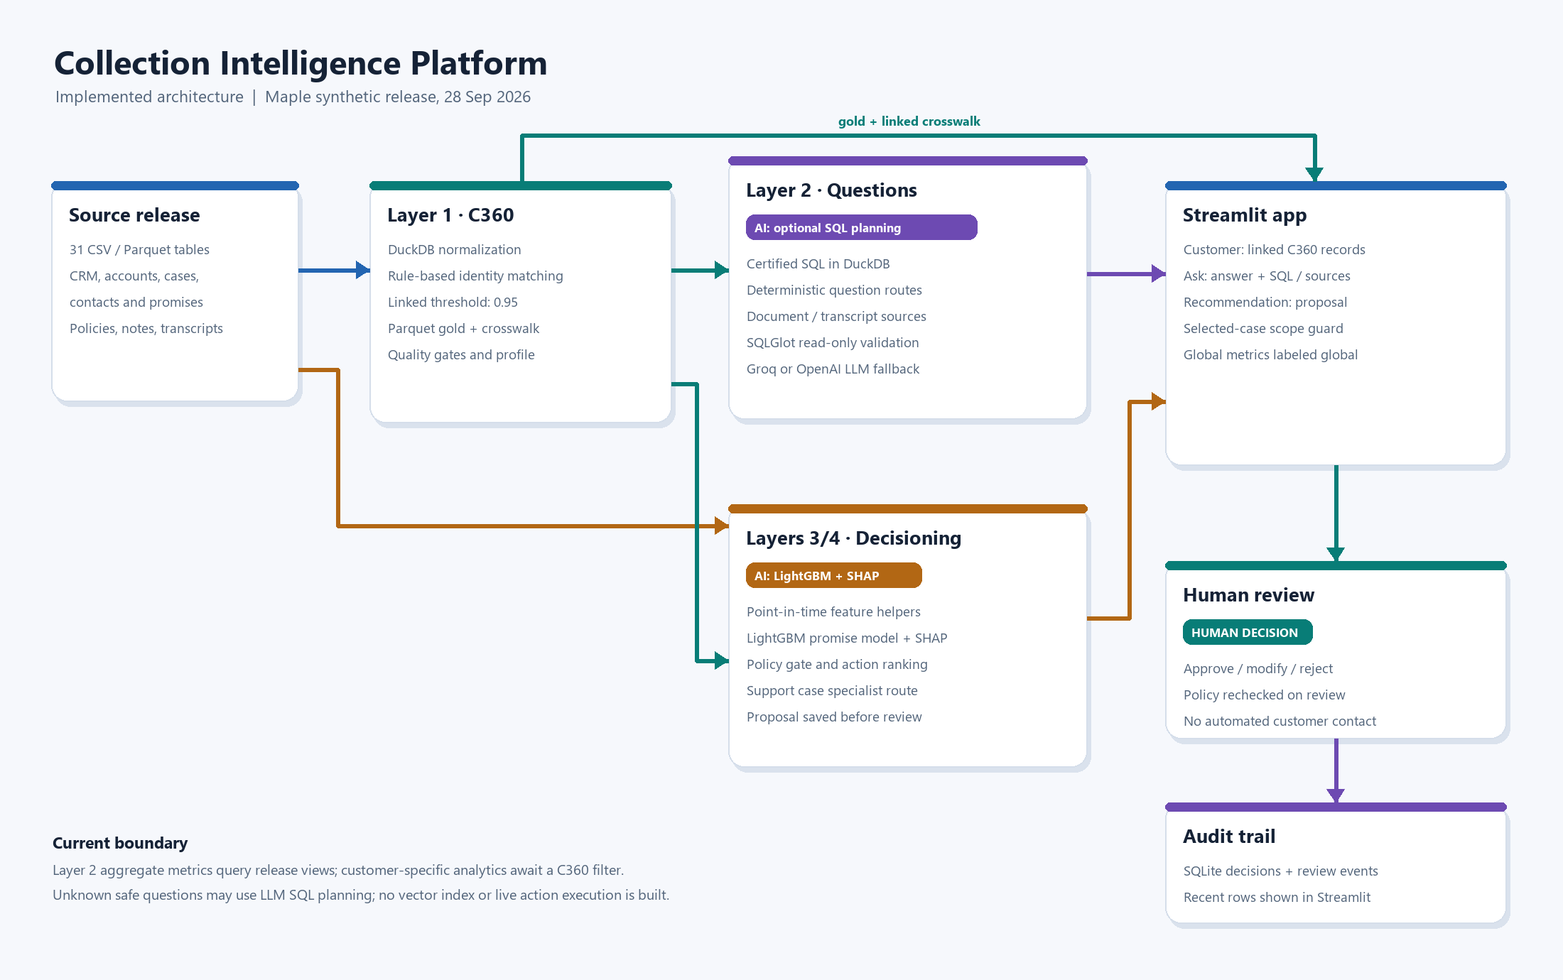
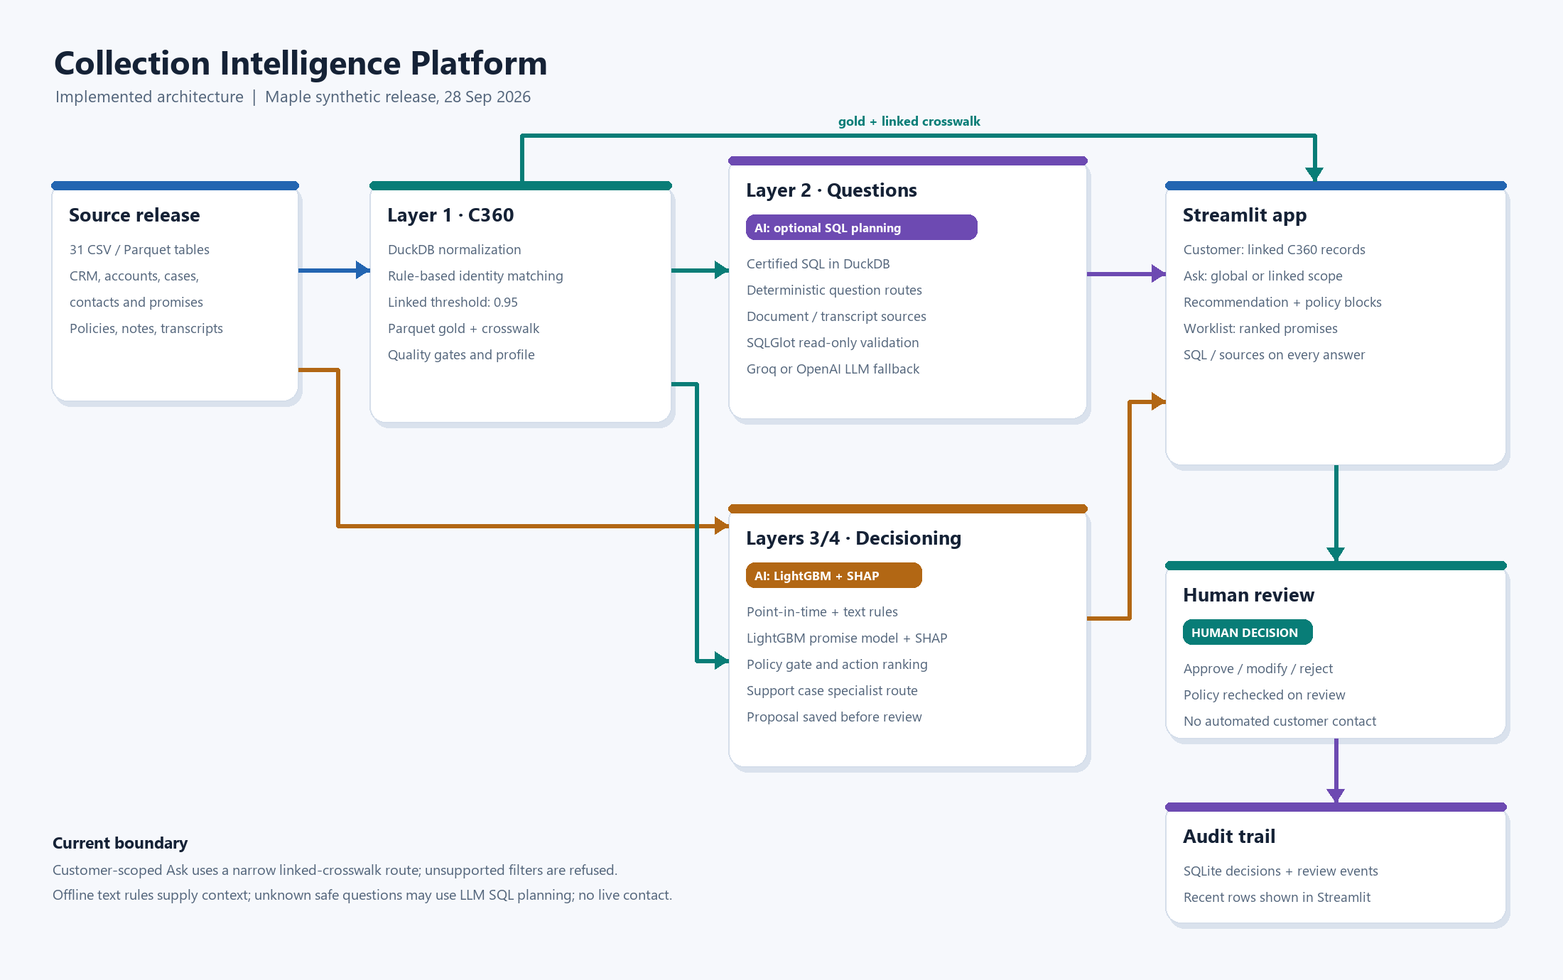
Refresh runbook architecture deck and live app screenshots

Changed region(s): [[0.0309, 0.8725, 0.4327, 0.9348], [0.7727, 0.2804, 0.8655, 0.3739], [0.5564, 0.6232, 0.5873, 0.6543]]

diff --git a/docs/render_architecture.py b/docs/render_architecture.py
@@ -82,10 +82,10 @@ box((1025, 220, 1530, 590), "Layer 2 · Questions", [
     "Certified SQL in DuckDB", "Deterministic question routes", "Document / transcript sources", "SQLGlot read-only validation", "Groq or OpenAI LLM fallback",
 ], PURPLE, "AI: optional SQL planning")
 box((1025, 710, 1530, 1080), "Layers 3/4 · Decisioning", [
-    "Point-in-time feature helpers", "LightGBM promise model + SHAP", "Policy gate and action ranking", "Support case specialist route", "Proposal saved before review",
+    "Point-in-time + text rules", "LightGBM promise model + SHAP", "Policy gate and action ranking", "Support case specialist route", "Proposal saved before review",
 ], AMBER, "AI: LightGBM + SHAP")
 box((1640, 255, 2120, 655), "Streamlit app", [
-    "Customer: linked C360 records", "Ask: answer + SQL / sources", "Recommendation: proposal", "Selected-case scope guard", "Global metrics labeled global",
+    "Customer: linked C360 records", "Ask: global or linked scope", "Recommendation + policy blocks", "Worklist: ranked promises", "SQL / sources on every answer",
 ], BLUE)
 box((1640, 790, 2120, 1040), "Human review", [
     "Approve / modify / reject", "Policy rechecked on review", "No automated customer contact",
@@ -106,9 +106,9 @@ arrow([(1880, 655), (1880, 790)], TEAL)
 arrow([(1880, 1040), (1880, 1130)], PURPLE)
 
 draw.text((74, 1170), "Current boundary", font=font(23, True), fill=INK)
-draw.text((74, 1210), "Layer 2 aggregate metrics query release views; customer-specific analytics await a C360 filter.",
+draw.text((74, 1210), "Customer-scoped Ask uses a narrow linked-crosswalk route; unsupported filters are refused.",
           font=font(20), fill=MUTED)
-draw.text((74, 1245), "Unknown safe questions may use LLM SQL planning; no vector index or live action execution is built.",
+draw.text((74, 1245), "Offline text rules supply context; unknown safe questions may use LLM SQL planning; no live contact.",
           font=font(20), fill=MUTED)
 
 image.save(OUT, optimize=True)

diff --git a/README.md b/README.md
@@ -15,7 +15,7 @@ Hackathon build for a golden customer view (C360), grounded collections question
 | `local_artifacts/` | Generated local files, ignored by Git |
 | `submission/` | Final artifacts to commit for judging |
 
-See [the parallel workflow](docs/PARALLEL_WORKFLOW.md) for folder ownership and integration steps. Each laptop downloads the dataset locally using [the dataset guide](docs/DATASET_DOWNLOAD.md). The dataset and virtual environment are not committed.
+Use [the dataset guide](docs/DATASET_DOWNLOAD.md) to download the release locally. The dataset, virtual environment, text annotation cache, and generated Parquet files are not committed.
 
 The build-phase requirements are in `build_phase.pdf`; the proposed architecture is in `HACKERS_SystemDesign.pdf`.
 
@@ -35,6 +35,8 @@ py -3 -m venv .venv
 .\.venv\Scripts\python.exe -m app.smoke
 .\.venv\Scripts\python.exe -m src.features.training
 .\.venv\Scripts\python.exe -m src.features.candidates --base local_artifacts/features/open_promise_features.parquet --output local_artifacts/features/open_promise_candidates.parquet
+.\.venv\Scripts\python.exe -m src.features.text_rules
+.\.venv\Scripts\python.exe -m src.features.text_data
 .\.venv\Scripts\python.exe -m streamlit run app/main.py
 ```
 
@@ -50,10 +52,14 @@ python3 -m venv .venv
 .venv/bin/python -m app.smoke
 .venv/bin/python -m src.features.training
 .venv/bin/python -m src.features.candidates --base local_artifacts/features/open_promise_features.parquet --output local_artifacts/features/open_promise_candidates.parquet
+.venv/bin/python -m src.features.text_rules
+.venv/bin/python -m src.features.text_data
 .venv/bin/python -m streamlit run app/main.py
 ```
 
-Download the dataset before the build command; see the dataset guide for its exact commands and access steps. Open the local URL printed by Streamlit. The Customer tab starts with `G-39c6b287f70371cd9fc6`; choose another demo ID or paste a published golden ID. Ask shows answers with evidence and refusals; Recommendation creates a proposal for human review and shows local audit rows. Worklist loads ranked open promises after the two feature commands. The smoke command writes a local test rejection to the ignored audit database. Stop the app with Ctrl+C.
+Download the dataset before the build command; see the dataset guide for its exact commands and access steps. Open the local URL printed by Streamlit. The Customer tab starts with `G-39c6b287f70371cd9fc6`; the dropdown also includes `G-b1714eca2809e88d7587`. Ask defaults to **All Collections**. Choose **This customer** only for a certified linked-customer route; unsupported scoped filters are refused. Every non-refused answer shows SQL or sources. Recommendation shows its reasons, text context, blocked actions with policy reasons, and human-review audit rows. Worklist loads ranked open promises. The smoke command writes a local test rejection to the ignored audit database. Stop the app with Ctrl+C.
+
+For the official benchmark output, run `python -m src.insights.submission --questions questions.csv --output answers.csv` from the repository root (use the venv's Python on either OS). The output columns are exactly `question_id,answer,sql_or_sources,refused`. See [the uncached first-run ledger](docs/insights/step3_first_run_34.csv) and [fresh-clone verification](docs/fresh_clone_verification.md).
 
 The [implemented architecture diagram](docs/architecture_built.png) shows the built components, AI use, and human review. [App interfaces](app/INTERFACES.md) and [hero-flow results](app/INTEGRATION_TEST.md) describe the current integration.
 
@@ -64,15 +70,23 @@ The [implemented architecture diagram](docs/architecture_built.png) shows the bu
 | Dagster, dbt and Great Expectations for the data product | One reproducible Python/DuckDB batch creates curated and golden Parquet files, with publication quality gates and a 31-table profile. |
 | Splink-style probabilistic identity matching and steward workflow | Rule-based matching publishes a link at confidence ≥0.95 only with a ≥0.05 lead over the next candidate and no conflicting profile. Ambiguous links remain `review_pending`; there is no steward UI or calibrated match probability. |
 | Vector document search and an agent-style Q&A planner | Document answers use governed source IDs and section mappings; transcript facts use text patterns. Released questions use deterministic routes. Unknown safe analytics can use an optional LLM SQL planner, validated with SQLGlot before read-only DuckDB execution. There is no vector index. |
-| Next.js application | Streamlit has Customer, Ask, and Recommendation tabs. Customer records use linked C360 keys; Ask labels global metrics and refuses unsupported customer-scoped analytics. |
+| Next.js application | Streamlit has Customer, Ask, Recommendation, and Worklist tabs. Ask has explicit All Collections / This customer scope; linked customer SQL supports only narrow certified routes and refuses unsupported filters. |
 | Managed AI decision service and online feature store | Local point-in-time feature helpers feed a LightGBM promise-kept model with SHAP reasons. A policy gate ranks allowed actions; a typed reviewer ID approves, modifies, or rejects a proposal into SQLite. No customer contact is executed. |
-| Broad use of customer profile signals | Fairness-test fields are excluded from published C360 outputs and model ranking. Support flags are used only to route a case to specialist review. |
+| Broad use of customer profile signals | Protected fields are excluded from published C360 outputs and model ranking. Vulnerability flags route only to specialist review. Offline text rules from pre-scoring notes and customer transcript turns are context only. |
 
 The optional SQL-planning provider is Groq (`openai/gpt-oss-120b` by default with `GROQ_API_KEY`) or OpenAI (`gpt-5-mini` by default with `OPENAI_API_KEY`); OpenAI takes precedence if both are configured. The hero smoke test used deterministic Layer 2 routes, so it did not call either provider. The promise model runs locally with LightGBM.
 
-## AI tools used (submission draft)
+## AI tools used
 
-- Groq API (`openai/gpt-oss-120b`, fallback `openai/gpt-oss-20b`): SQL planning only for new Layer 2 analytics questions. The application validates and runs the SQL read-only in DuckDB, then builds answers solely from query results. A 24-question live API run has been completed.
+- Groq API (`openai/gpt-oss-120b`, fallback `openai/gpt-oss-20b`): SQL planning only for new Layer 2 analytics questions. The application validates and runs the SQL read-only in DuckDB, then builds answers solely from query results. The 34-question uncached first run had 33 non-error executions, 10 retries, and 172 seconds of rate-limit waits; one request failed before SQL execution. The text features use no API.
 - OpenAI API: optional alternative provider for the same SQL-planning-only path; not used for the Groq live run.
 - LightGBM and SHAP: local promise-kept estimation and explanation for decision proposals.
 - Codex: implementation, test creation, and development workflow assistance.
+
+## Honest limitations
+
+The channel score assumes `0.8 × smoothed right-party-contact rate − 0.2 × normalized channel cost` using the previous 90 days and the customer's local time band. These weights are human assumptions, not learned treatment effects.
+
+The release is synthetic and fixed at 28 September 2026. Identity confidence is rule based, and historical crosswalk availability cannot be proven. The time-split promise test had a 62.4% break rate versus 35.7% in training, so calibration can drift. LightGBM's test ROC-AUC was 0.677 and calibrated Brier score 0.2245; the signal is modest. The calibrated model does not beat logistic regression on every ranking measure. Text-rule precision and recall were measured on 500 public labels for each source, but those examples influenced rule writing and are not independent validation. Rules can miss paraphrases and languages. The annotation cache must be built offline before the demo; missing text means unknown, never no hardship.
+
+Channel and time-band weights are explicit assumptions based on observational right-party-contact rates; agents chose the historical channels. The backtest establishes neither uplift nor fair causal treatment. Protected fields are used only in a separate restricted measurement script, never in model features, action ranking, or explanations. Vulnerability flags only route to specialist review and suppress ordinary collection actions. No deposits or transactions enter the current feature matrix, so Canada Child Benefit deposits cannot enter it. The app has typed reviewer IDs rather than production authentication, uses local SQLite audit records, and sends no customer contact. An operational pilot would need randomized or carefully controlled comparison, consent and policy review, authentication, monitoring, and outcome measurement before any uplift claim.

diff --git a/docs/deck_outline.md b/docs/deck_outline.md
@@ -1,61 +1,77 @@
-# Collection Intelligence Platform — 10-slide deck outline
+# Collection Intelligence Platform — ten-slide outline
 
-## 1. The collections decision problem
+## 1. Problem
 
-- Agents need one trusted customer view across CRM, cards, lending, core banking, and Collections.
-- Questions must be grounded in certified metrics or policy sources.
-- Recommendations must be explainable, policy-checked, and reviewed by a human.
+Collections agents need a linked customer view, grounded answers, and a
+policy-checked proposal they can review before any action.
 
-## 2. What we built
+## 2. Built flow
 
-- Four-layer flow: C360 data product, governed insights, decisioning, and human review.
-- Streamlit demo connects Customer, Ask, Recommendation, and Worklist views.
-- Hero demo: `G-39c6b287f70371cd9fc6`.
+The Streamlit Customer, Ask, Recommendation, and Worklist tabs connect a
+Python/DuckDB C360 build, governed SQL/documents, point-in-time features,
+LightGBM/SHAP, a policy gate, and SQLite review audit. Hero:
+`G-39c6b287f70371cd9fc6`.
 
-## 3. Layer 1 — golden customer view
+## 3. Golden customer and quality
 
-- A reproducible Python/DuckDB batch profiles 31 source tables and publishes Parquet outputs.
-- Identity links require confidence at least 0.95, a 0.05 lead, and no conflicting profile.
-- Unlinked and review-pending records stay out of customer-level answers and decisions.
+31 source tables are profiled. Linked identities require rule confidence at
+least 0.95, at least 0.05 lead over another candidate, and no conflicting
+profile. The Why linked? table displays source record, matching evidence,
+method, confidence, and status. Ambiguous links stay pending.
 
-## 4. “Why linked?” and data quality
+## 4. Governed Ask
 
-- The UI shows source keys, match method, evidence names, confidence, and link status.
-- Quality gates cover uniqueness, referential integrity, confidence, amounts, and case resolution.
-- Protected fields are excluded from published C360 outputs.
+All Collections is the default; This customer uses a narrow certified
+crosswalk route. Unsupported filters are refused. Every non-refused answer
+shows SQL or source IDs. The 34-question uncached fresh/blind run produced 33
+non-error executions; 1 failed on Groq JSON validation before SQL. It took
+349.93 seconds including 136.98 seconds setup, with 10 retries and 172 seconds
+of rate-limit waits. This is an execution result, not an accuracy score.
 
-## 5. Layer 2 — grounded answers
+## 5. Promise model evidence
 
-- Deterministic routes answer the released benchmark with certified read-only DuckDB SQL, documents, and transcript evidence.
-- Every answer displays SQL or source IDs, snapshot date, and metric definition when applicable.
-- Refusals cover out-of-scope questions, protected-attribute profiling, bulk PII, and unsafe actions.
+On 54,657 test-period resolved promises: 62.4% broke. Logistic regression
+ROC-AUC 0.677, broken-class PR-AUC 0.752, Brier 0.2492. Calibrated LightGBM
+ROC-AUC 0.677, broken-class PR-AUC 0.746, Brier 0.2245. The constant test-rate
+oracle Brier is 0.2347; the pre-July training-rate constant is 0.3059.
+Isotonic calibration was fitted on a pre-test validation period.
 
-## 6. Layer 3/4 — prediction plus policy
+## 6. Policy, reasons, and text
 
-- Point-in-time features feed a local LightGBM promise-kept model.
-- SHAP factors explain the proposal; policy rules control permitted actions and specialist routing.
-- Vulnerability flags route support review; they do not rank ordinary collection actions.
+Policy blocks forbidden channels and routes hardship/vulnerability to a
+specialist. SHAP supplies model reasons only after policy. Offline text rules
+add dated context and cannot alone trigger adverse treatment. On 500 public
+labels per source, hardship precision/recall was 1.000/0.815 for notes and
+0.991/0.863 for transcripts. Delay-reason presence was 0.856/0.628 and
+0.808/0.770. Public examples influenced rule writing, so these are
+development-set results.
 
 ## 7. Human review and audit
 
-- Proposals are pending until a reviewer approves, modifies, or rejects them.
-- Reviewer ID and reason are required; review events are append-only in SQLite.
-- The system never sends customer contact or activates a payment plan.
+Approve, modify, or reject requires reviewer ID and reason. Policy is checked
+again during review. Audit events are append-only locally; no contact is sent.
+The app shows each blocked action and its reason.
 
-## 8. Worklist for operations
+## 8. Worklist
 
-- Linked open promises are ranked by predicted break risk.
-- The queue shows customer ID, case, risk, top reason, and model version.
-- Leakage checks ensure source data is available before promise creation; the queue is a review list, not an action list.
+Linked open promises are sorted by predicted break risk with the top SHAP
+reason. It is a human review queue. The top 10% of test risks contained 12.9%
+of broken promises; the top 20% contained 25.6%. The signal is modest.
 
-## 9. Demo evidence and safeguards
+## 9. Fairness and limitations
 
-- Live screenshots cover Customer, Why linked?, Ask SQL, refusal, recommendation, audit, and Worklist.
-- Fresh-clone verification: 142 tests passed, two data-dependent skips, and the Streamlit health endpoint returned `ok`.
-- Current boundary: the app passes golden-ID scope when Layer 2 exposes it; customer-scoped Ask remains clearly refused until then.
+The restricted measurement script examined 52,283 linked test promises,
+comparing predicted risk, observed break rate, and historical channel mix with
+confidence intervals. Protected fields are measurement-only. Mean predicted
+break risk was 0.540/0.541 for women/men, and 0.544/0.530 for citizens/permanent
+residents. Break-rate drift was 35.7% training to 62.5% in the linked test
+cohort. Agents selected historical channels; no causal fairness or uplift claim
+follows from these observations.
 
-## 10. Design decisions and next step
+## 10. Pilot and deployment boundary
 
-- Streamlit and local DuckDB/SQLite keep the build reproducible and inspectable.
-- Optional Groq/OpenAI SQL planning is validated and read-only; governed routes need no API key.
-- Next integration step: Layer 2 exposes its scoped answer interface, then the app enables customer-scoped metrics without changing the UI contract.
+Use a controlled pilot with fixed policy and model versions, explicit consent,
+authentication, monitoring, and outcome measurement to test whether agent
+decisions improve. The current demo is local, synthetic, and does not execute
+customer contact. Exact dependencies and 185 tests are committed; the
+fresh-clone check passed 183 tests before the latest two app tests were added.

diff --git a/docs/demo_script.md b/docs/demo_script.md
@@ -1,41 +1,52 @@
 # Five-minute demo script
 
-Use the running app from the repository root:
+Start from the repository root with `python -m streamlit run app/main.py` using the
+project virtual environment. The hero is `G-39c6b287f70371cd9fc6`; the second
+demo customer is `G-b1714eca2809e88d7587`.
 
-```powershell
-.\.venv\Scripts\python.exe -m streamlit run app/main.py
-```
+## 0:00-0:55 — Customer and identity evidence
 
-The demo uses the hero customer `G-39c6b287f70371cd9fc6` and the second customer `G-b1714eca2809e88d7587`.
+Open Customer. Show the 28 September 2026 snapshot and the **Why linked?**
+table at the top. Point to source record IDs, observed matching evidence, rule,
+confidence, and link status. Say that the values are rule scores, not calibrated
+match probabilities. Show the one open case and overdue amount. Protected
+identity fields are not displayed.
 
-## 0:00–0:35 — Set the context
+## 0:55-1:45 — Ask and scope
 
-Open the Customer tab. Say: “This is a published 28 September C360 snapshot. Every customer-level record shown here comes through a linked identity crosswalk. Protected fields are excluded.” Point to the hero ID, the one open case, DPD 150, overdue balance, and hardship flag.
+In Ask, leave **All Collections** selected. Ask “What is the average days past
+due of open cases by queue?” Show the global scope, definition, SQL, and data
+date. Then choose **This customer** and ask “How many open cases are there?”
+Show the one-case result and linked-crosswalk SQL. Explain that unsupported
+customer filters are refused instead of silently becoming global answers.
 
-## 0:35–1:10 — Show identity evidence
+## 1:45-2:05 — Refusal
 
-At the top of the Customer page, point to “Why linked?”. Say: “These six source records are linked by visible evidence: the CRM records share an exact hashed-ID match, Collections uses a CRM reference, and the account sources show which normalized identity fields agree. The table shows source keys, methods, confidence, and link status without exposing personal values. Confidence is rule based; ambiguous links stay out of customer views.”
+Ask “What will the weather be in Toronto tomorrow?” Show the refusal. No
+unsupported answer is invented.
 
-## 1:10–1:55 — Show a certified Ask answer
+## 2:05-3:05 — Recommendation and policy
 
-Open Ask and enter: “What is the average days past due of open cases by queue?” Click Get answer. Say: “The answer is routed to a certified read-only SQL metric. The screen shows the release date, scope, metric definition, and exact SQL so a reviewer can reproduce it.” Do not imply this global metric is scoped to the selected customer.
+Open Recommendation and click **Generate recommendation**. The hero routes to
+specialist review. Show the policy reason first, model SHAP context, and dated
+text-rule evidence. Point to **Blocked actions** and their exact policy reasons.
+Explain that text alone does not authorize an adverse collection action.
 
-## 1:55–2:20 — Show refusal behavior
+## 3:05-3:40 — Human review and audit
 
-Ask: “What will the weather be in Toronto tomorrow?” Say: “The system fails closed outside Collections scope and makes the refusal visible. It does not invent an answer or call an external service.”
+Enter reviewer ID `demo-reviewer`, reason `Demo review: specialist route
+confirmed`, then click **Reject**. Show the new audit row. A proposal never
+sends customer contact; human review is recorded locally.
 
-## 2:20–3:05 — Show a recommendation
+## 3:40-4:20 — Worklist
 
-Open Recommendation and click Generate recommendation. Say: “Layer 3 combines point-in-time features, a local promise-kept model, SHAP reasons, and a policy gate. This customer is routed to specialist review because hardship suppresses ordinary collection actions.” Point to alternatives and policy checks.
+Open Worklist and click **Load worklist**. Show break risk and the top SHAP reason
+for each linked open promise. This is a review queue, not an automatic action
+list.
 
-## 3:05–3:40 — Show human review and audit
+## 4:20-5:00 — Second customer and limits
 
-Enter reviewer ID `demo-reviewer`, reason `Demo review: specialist route confirmed`, and click Reject. Say: “The proposal is not an action. A human must approve, modify, or reject it. The decision and review reason are append-only audit records, and no customer contact is sent.” Point to the latest audit row.
-
-## 3:40–4:20 — Show the Worklist
-
-Open Worklist and click Load worklist. Say: “This is a review queue of linked open promises ranked by predicted break risk. The top reason is shown beside each row, and the data is constrained to evidence available before the promise was created. It is not an automated contact list.”
-
-## 4:20–5:00 — Change customer and close
-
-Return to Customer and select `G-b1714eca2809e88d7587`. Say: “The same views work for another published golden ID. The second customer demonstrates that the UI is driven by the selected identity rather than hard-coded to the hero.” Point to its accounts, cases, and Why linked? panel. Close by saying: “Layer 2 owns the future customer-scoped Ask API; the app already passes the selected golden ID when that interface is available and explains the current boundary until then.”
+Select `G-b1714eca2809e88d7587` in the Customer dropdown. Show that the
+identity and case views change. Close with the limits: historical channels were
+chosen by agents; the model's signal is modest; no uplift is proven. A pilot
+needs controlled comparison and outcome monitoring.

diff --git a/docs/screens/README.md b/docs/screens/README.md
@@ -11,5 +11,12 @@ Captured from the 28 September 2026 Maple release with the hero golden ID `G-39c
 | Recommendation with reasons and policy checks | `05_recommendation.png` |
 | Human rejection and recent audit rows | `06_review_audit.png` |
 | Open-promise worklist | `07_worklist.png` |
+| Current Customer page with visible link evidence | `08_current_customer.png` |
+| Current explicit This customer Ask result and SQL | `09_current_ask_scope.png` |
+| Current specialist recommendation and blocked-action reasons | `10_current_blocked_actions.png` |
 
 The review capture created a local audit event; it did not contact a customer. The worklist uses ignored point-in-time feature artifacts generated by `src.features.training` and `src.features.candidates`.
+Screenshots 08-10 were recaptured from the updated app on 4 October 2026 with
+the downloaded release and offline text annotation cache. They show the current
+scope selector and blocked-action panel; screenshots 01-07 document the earlier
+end-to-end flow.
